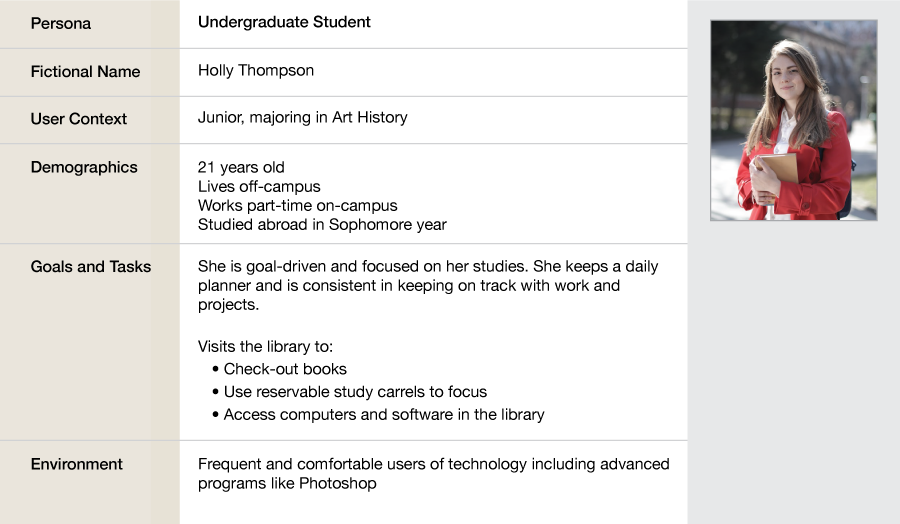
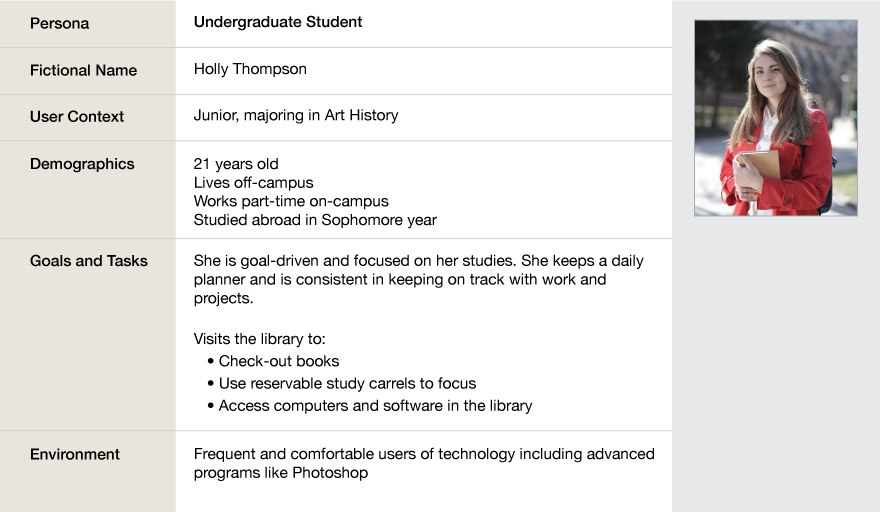
edit blog post image sizing

diff --git a/my_collections/_posts/2021-04-11-ux-research.md b/my_collections/_posts/2021-04-11-ux-research.md
@@ -34,7 +34,7 @@ The result of this process is data. Sometimes quantitative, but often qualitativ
 After gathering a good amount of qualitative data during the user research process, it's time to put that information to use. An important piece of information for developing a website is who are the most likely users of the website and what characteristics do they all have in common and what makes groups of users unique? This is where [creating personas](https://www.usability.gov/how-to-and-tools/methods/personas.html) can be beneficial. Personas are real-world and research-based representations of important users that can be referenced throughout different stages of the usability process.
 
 {% capture post_image %}/assets/img/blog/blog-post-usability-persona.png{% endcapture %}
-{% include post-image.html max-width=75 file=post_image caption="Example of a Persona for an Undergraduate Student" %}
+{% include post-image.html max-width=80 file=post_image caption="Example of a Persona for an Undergraduate Student" %}
 
 Having several different personas available helps the usability process by keep focus on the important types of users. This information can be consulted as the usability process continues.
 
@@ -43,7 +43,7 @@ Having several different personas available helps the usability process by keep 
 Another early stage of the user research process is to create [empathy maps](https://www.uxbooth.com/articles/empathy-mapping-a-guide-to-getting-inside-a-users-head/). These are tools to capture a user's expressions, intentions, actions, and emotions. They can be useful for diving deeper into a user's experience with a website and highlight pain points or more complex user expectations and goals.
 
 {% capture post_image %}/assets/img/blog/blog-post-usability-empathy-mapping.png{% endcapture %}
-{% include post-image.html max-width=75 file=post_image caption="Example of a Empathy Map divided into quadrants for what a user says, does, thinks, and feels." %}
+{% include post-image.html max-width=60 file=post_image caption="Example of a Empathy Map divided into quadrants for what a user says, does, thinks, and feels." %}
 
 Each quadrant of the empathy map is filled with quotes or actions of the user to describe the process of engagement with a website.
 
